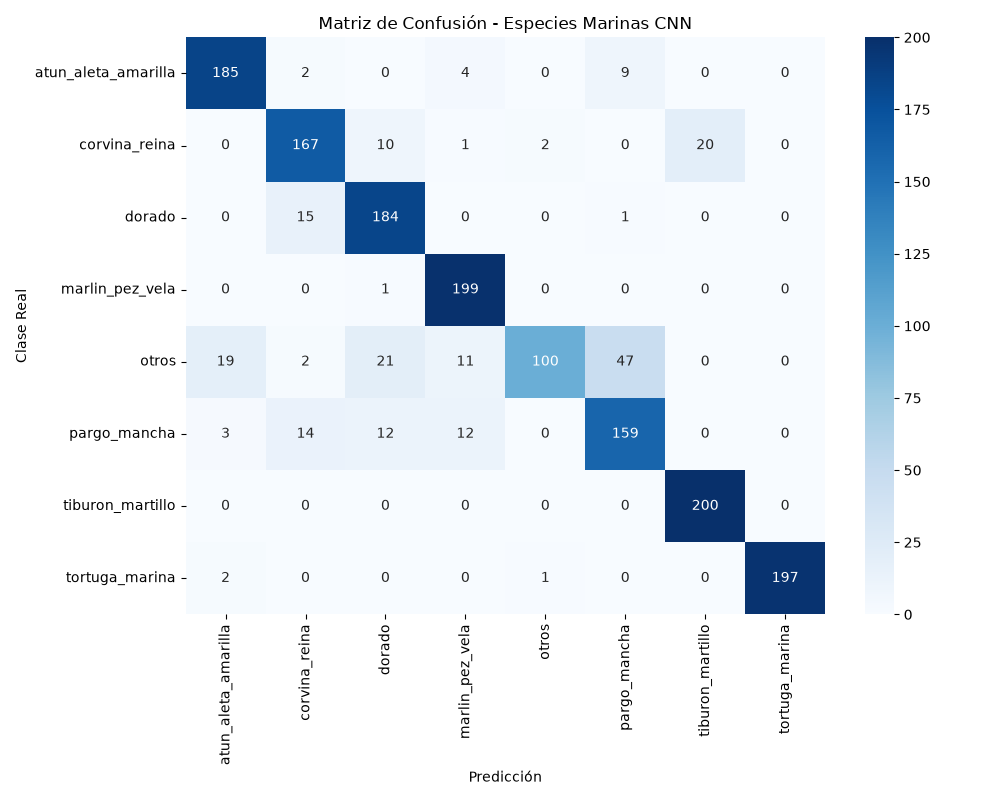
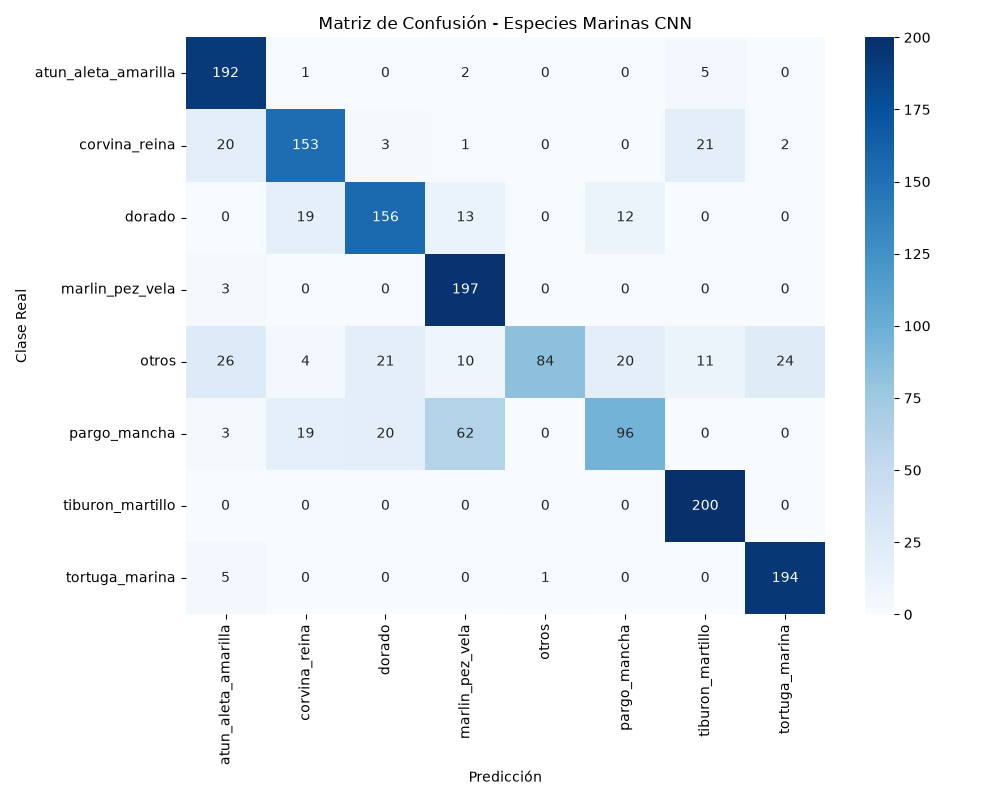
Ajuste en resoluci[on de imagenes
Se ajusta la resolucion de imagenes de entrenamiento con el fin de que suba la precision

diff --git a/api/main.py b/api/main.py
@@ -67,7 +67,7 @@ async def predict_especie(file: UploadFile = File(...)):
         model = _load("cnn", "models/cnn_especies.keras")
 
         img_bytes = await file.read()
-        img = Image.open(io.BytesIO(img_bytes)).convert("RGB").resize((128, 128))
+        img = Image.open(io.BytesIO(img_bytes)).convert("RGB").resize((150, 150))
         arr = np.expand_dims(np.array(img) / 255.0, 0).astype("float32")
 
         preds = model.predict(arr, verbose=0)[0]

diff --git a/src/train/cnn.py b/src/train/cnn.py
@@ -30,7 +30,7 @@ def main():
     os.makedirs(models_dir, exist_ok=True)
 
     # 1. Configuración de hiperparámetros e imágenes
-    image_shape = (128, 128, 3)
+    image_shape = (150, 150, 3)
     batch_size = 32
     epochs = 20
 